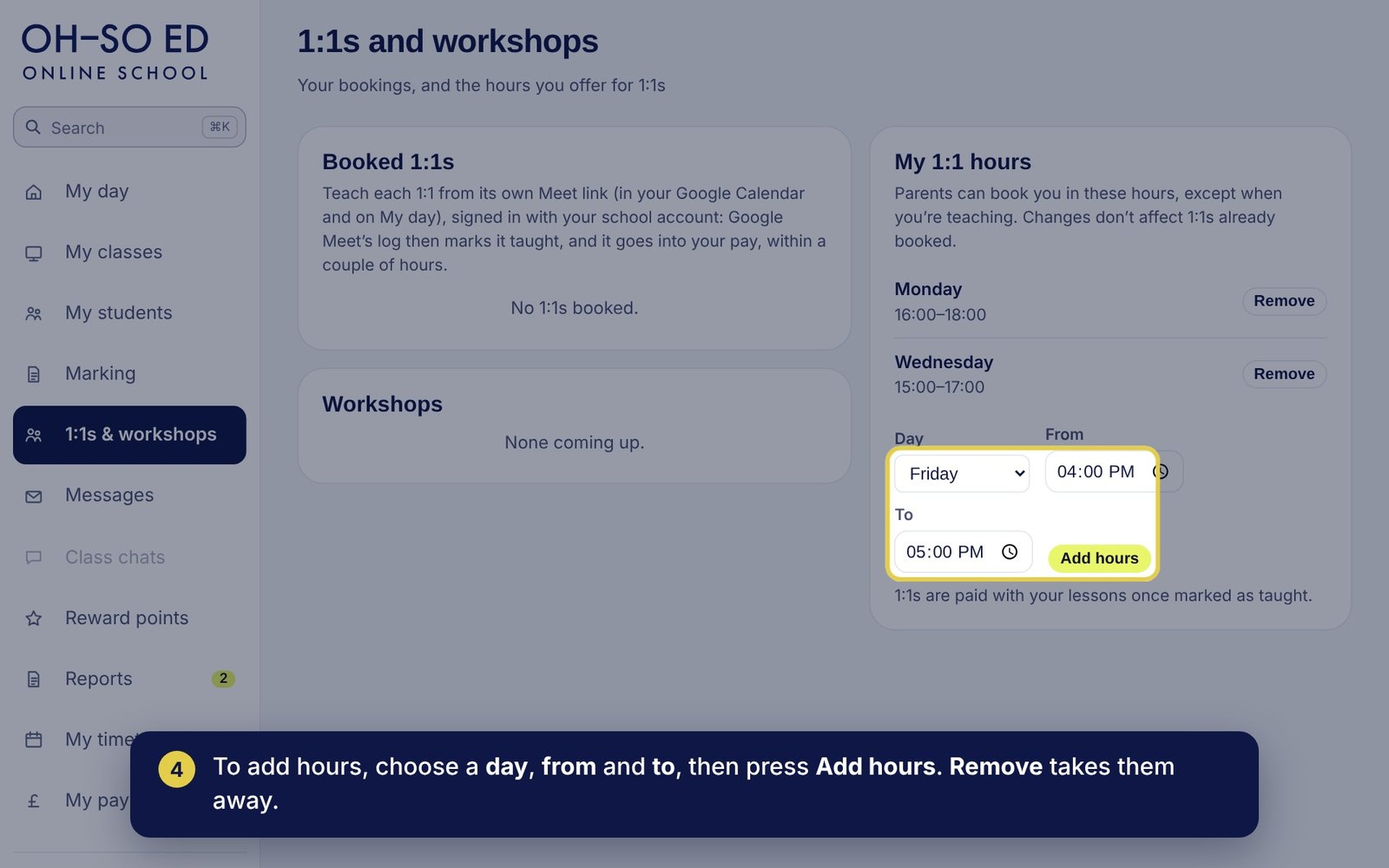
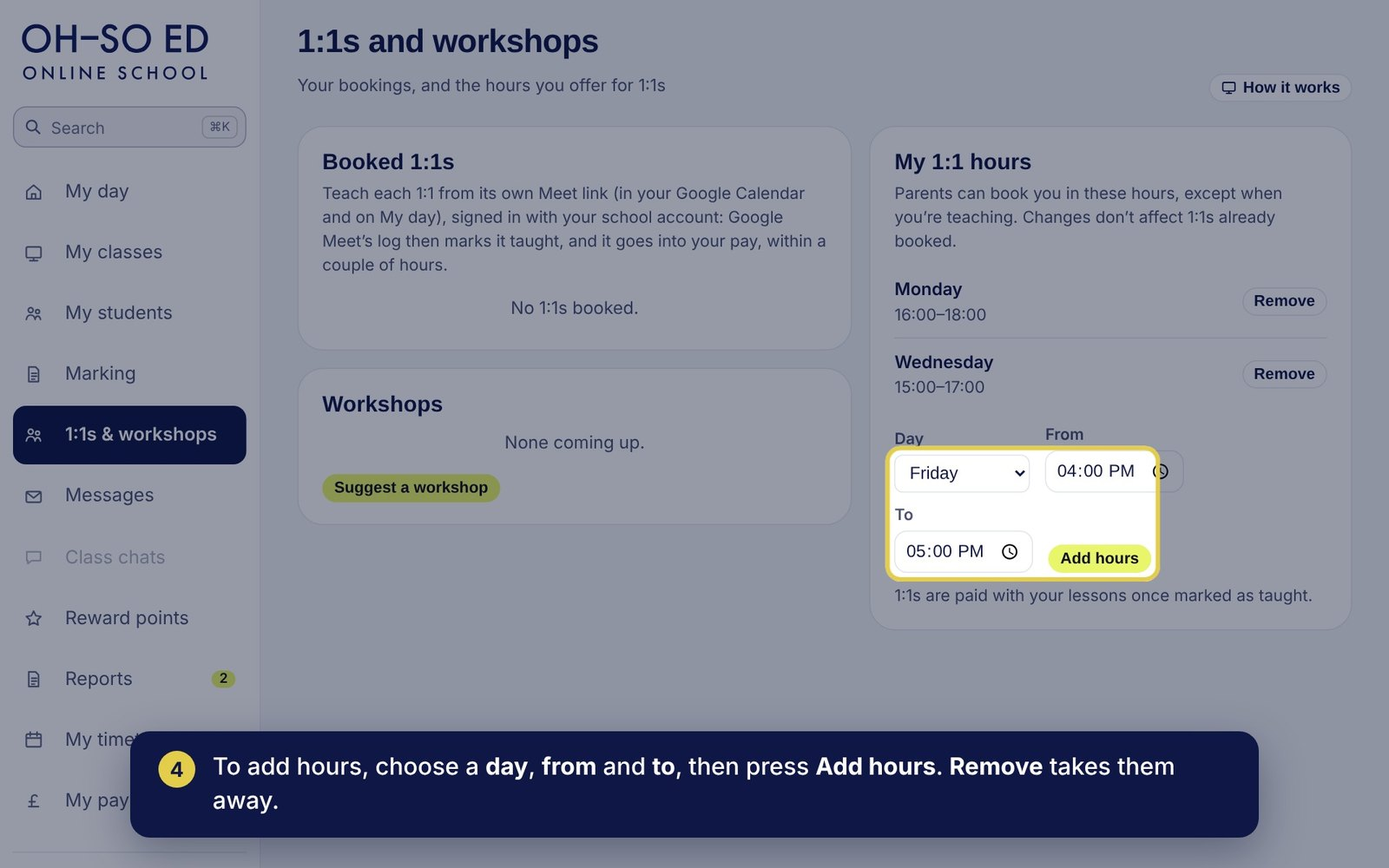
Update 507: suggested dates on workshop ideas with clash warnings (office can override); teacher presentation pages and 1:1s slideshow updated
Claude-Session: https://claude.ai/code/session_019jwWYdrTturMMjiMEQw7Wv

diff --git a/src/lib/workshop-ideas.ts b/src/lib/workshop-ideas.ts
@@ -6,36 +6,45 @@ import { withSchool } from "./db";
 // turn one into a draft workshop (the new-workshop form opens filled in from the idea). db/119.
 export type IdeaStatus = "new" | "liked" | "scheduled" | "not_now";
 export const IDEA_STATUS: Record<IdeaStatus, [string, string]> = { new: ["New", "info"], liked: ["We like it", "good"], scheduled: ["Workshop set up", "good"], not_now: ["Not for now", "mute"] };
+export type IdeaDate = { d: string; t: string };
 export type Idea = { id: string; title: string; subject: string; overview: string; slides_url: string | null; status: IdeaStatus; office_note: string | null;
-  workshop_id: string | null; created_at: string; updated_at: string; teacher: string | null; teacher_id: string };
+  workshop_id: string | null; created_at: string; updated_at: string; teacher: string | null; teacher_id: string; level_id: string | null; level: string | null; minutes: number; dates: IdeaDate[] };
+/** One thing happening at a suggested time: the teacher's own lesson / 1:1 / workshop (they can't do both), or a lesson or
+ *  workshop for students the idea is aimed at (they couldn't come). */
+export type Clash = { own: boolean; what: string; who: string | null; at: string; students: number | null };
 
-const clean = (d: { title: string; subject: string; overview: string; slides: string }) => {
+type IdeaInput = { title: string; subject: string; overview: string; slides: string; level: string; minutes: number; dates: IdeaDate[] };
+const okDates = (ds: IdeaDate[]) => ds.filter((x) => /^\d{4}-\d{2}-\d{2}$/.test(x.d) && /^\d{2}:\d{2}$/.test(x.t)).slice(0, 3);
+const clean = (d: IdeaInput) => {
   const title = d.title.trim().slice(0, 120), subject = d.subject.trim().slice(0, 80), overview = d.overview.trim().slice(0, 3000), slides = d.slides.trim().slice(0, 500);
   if (title.length < 3) return { error: "Give the workshop a title." };
   if (subject.length < 2) return { error: "Choose or type the subject." };
   if (overview.length < 20) return { error: "Write a short overview: what it covers and who it’s for." };
   if (slides && !/^https?:\/\/\S+$/.test(slides)) return { error: "The slides need to be a link, e.g. to Google Slides." };
-  return { title, subject, overview, slides: slides || null };
+  const dates = okDates(d.dates), today = new Date().toISOString().slice(0, 10);
+  if (dates.some((x) => x.d < today)) return { error: "Suggested dates need to be in the future." };
+  return { title, subject, overview, slides: slides || null, level: /^[0-9a-f-]{36}$/.test(d.level) ? d.level : null, minutes: Math.max(15, Math.min(240, Math.round(d.minutes) || 60)), dates };
 };
 
 /** A teacher's own ideas, newest first, and the school's subjects (for the subject box). */
-export async function myIdeas(userId: string): Promise<{ ideas: Idea[]; subjects: string[] }> {
+export async function myIdeas(userId: string): Promise<{ ideas: Idea[]; subjects: string[]; levels: { id: string; name: string }[] }> {
   return withSchool(async (q) => ({
-    ideas: await q<Idea>(`select i.id, i.title, i.subject, i.overview, i.slides_url, i.status, i.office_note, i.workshop_id, i.created_at::text, i.updated_at::text, null as teacher, i.teacher_id
-      from workshop_ideas i join teachers t on t.id = i.teacher_id where t.user_id = $1 order by i.created_at desc`, [userId]),
+    ideas: await q<Idea>(`select i.id, i.title, i.subject, i.overview, i.slides_url, i.status, i.office_note, i.workshop_id, i.created_at::text, i.updated_at::text, null as teacher, i.teacher_id, i.level_id, lv.name as level, i.minutes, i.dates
+      from workshop_ideas i join teachers t on t.id = i.teacher_id left join levels lv on lv.id = i.level_id where t.user_id = $1 order by i.created_at desc`, [userId]),
     subjects: (await q<{ name: string }>(`select distinct name from subjects order by name`)).map((r) => r.name),
-  })).catch(() => ({ ideas: [], subjects: [] }));
+    levels: await q<{ id: string; name: string }>(`select id, name from levels order by sort_order, name`),
+  })).catch(() => ({ ideas: [], subjects: [], levels: [] }));
 }
 
 /** New idea (no id) or a change to one of the teacher's own (until it's set up as a workshop). */
-export async function saveIdea(userId: string, id: string | null, d: { title: string; subject: string; overview: string; slides: string }, actorId = userId): Promise<string | null> {
+export async function saveIdea(userId: string, id: string | null, d: IdeaInput, actorId = userId): Promise<string | null> {
   const c = clean(d); if ("error" in c) return c.error ?? null;
   return withSchool(async (q) => {
     const r = id
-      ? await q<{ id: string }>(`update workshop_ideas i set title = $3, subject = $4, overview = $5, slides_url = $6, updated_at = now()
-          from teachers t where i.id = $2 and t.id = i.teacher_id and t.user_id = $1 and i.status <> 'scheduled' returning i.id`, [userId, id, c.title, c.subject, c.overview, c.slides])
-      : await q<{ id: string }>(`insert into workshop_ideas (school_id, teacher_id, title, subject, overview, slides_url) select current_school(), t.id, $2, $3, $4, $5 from teachers t where t.user_id = $1 returning id`,
-          [userId, c.title, c.subject, c.overview, c.slides]);
+      ? await q<{ id: string }>(`update workshop_ideas i set title = $3, subject = $4, overview = $5, slides_url = $6, level_id = $7, minutes = $8, dates = $9::jsonb, updated_at = now()
+          from teachers t where i.id = $2 and t.id = i.teacher_id and t.user_id = $1 and i.status <> 'scheduled' returning i.id`, [userId, id, c.title, c.subject, c.overview, c.slides, c.level, c.minutes, JSON.stringify(c.dates)])
+      : await q<{ id: string }>(`insert into workshop_ideas (school_id, teacher_id, title, subject, overview, slides_url, level_id, minutes, dates) select current_school(), t.id, $2, $3, $4, $5, $6, $7, $8::jsonb from teachers t where t.user_id = $1 returning id`,
+          [userId, c.title, c.subject, c.overview, c.slides, c.level, c.minutes, JSON.stringify(c.dates)]);
     if (!r.length) return id ? "That idea can’t be changed now." : "Only teachers can suggest workshops.";
     await q(`insert into audit_log (school_id, actor_user_id, action, entity, entity_id, detail) values (current_school(), $1, $2, 'workshop_idea', $3, $4)`,
       [actorId, id ? "update" : "add", r[0].id, JSON.stringify({ title: c.title })]);
@@ -48,8 +57,8 @@ export async function deleteIdea(userId: string, id: string): Promise<void> {
 
 /** Admin → Workshops: every idea, new ones first. */
 export async function allIdeas(): Promise<Idea[]> {
-  return withSchool((q) => q<Idea>(`select i.id, i.title, i.subject, i.overview, i.slides_url, i.status, i.office_note, i.workshop_id, i.created_at::text, i.updated_at::text, u.name as teacher, i.teacher_id
-    from workshop_ideas i join teachers t on t.id = i.teacher_id left join users u on u.id = t.user_id
+  return withSchool((q) => q<Idea>(`select i.id, i.title, i.subject, i.overview, i.slides_url, i.status, i.office_note, i.workshop_id, i.created_at::text, i.updated_at::text, u.name as teacher, i.teacher_id, i.level_id, lv.name as level, i.minutes, i.dates
+    from workshop_ideas i join teachers t on t.id = i.teacher_id left join users u on u.id = t.user_id left join levels lv on lv.id = i.level_id
     order by (i.status = 'new') desc, (i.status = 'liked') desc, i.created_at desc limit 200`)).catch(() => []);
 }
 export async function newIdeasCount(): Promise<number> {
@@ -65,9 +74,9 @@ export async function setIdeaStatus(actorId: string, id: string, status: string,
   return r ? null : "That idea wasn’t found.";
 }
 /** The new-workshop form, filled in from an idea: title, subject (matched by name), teacher and the overview. */
-export async function ideaForForm(id: string): Promise<{ id: string; title: string; subject_id: string | null; teacher_id: string; summary: string; slides_url: string | null } | null> {
+export async function ideaForForm(id: string): Promise<{ id: string; title: string; subject_id: string | null; teacher_id: string; summary: string; slides_url: string | null; level_id: string | null; minutes: number } | null> {
   if (!/^[0-9a-f-]{36}$/.test(id)) return null;
-  return (await withSchool((q) => q<{ id: string; title: string; subject_id: string | null; teacher_id: string; summary: string; slides_url: string | null }>(`select i.id, i.title,
+  return (await withSchool((q) => q<{ id: string; title: string; subject_id: string | null; teacher_id: string; summary: string; slides_url: string | null; level_id: string | null; minutes: number }>(`select i.id, i.title, i.level_id, i.minutes,
       (select s.id from subjects s where lower(s.name) = lower(i.subject) limit 1) as subject_id, i.teacher_id, left(i.overview, 1000) as summary, i.slides_url
     from workshop_ideas i where i.id = $1`, [id])).catch(() => []))[0] ?? null;
 }
@@ -75,4 +84,42 @@ export async function ideaForForm(id: string): Promise<{ id: string; title: stri
 export async function linkIdea(id: string, workshopId: string): Promise<void> {
   if (!/^[0-9a-f-]{36}$/.test(id)) return;
   await withSchool((q) => q(`update workshop_ideas set status = 'scheduled', workshop_id = $2, updated_at = now() where id = $1`, [id, workshopId])).catch(() => null);
+}
+
+/** 27 Nov (Alfonso): what a suggested date clashes with: the teacher's own lessons, 1:1s and workshops (they can't do
+ *  both), and lessons and workshops for the students the idea is aimed at (its level; any level = every lesson), who
+ *  then couldn't come. A warning only: the office can still set the workshop up. Times are London times. */
+export async function dateClashes(teacherId: string | null, levelId: string | null, minutes: number, d: IdeaDate): Promise<Clash[]> {
+  if (!/^\d{4}-\d{2}-\d{2}$/.test(d.d) || !/^\d{2}:\d{2}$/.test(d.t)) return [];
+  const m = Math.max(15, Math.min(240, Math.round(minutes) || 60)), lv = levelId && /^[0-9a-f-]{36}$/.test(levelId) ? levelId : null, me = teacherId && /^[0-9a-f-]{36}$/.test(teacherId) ? teacherId : null;
+  return withSchool((q) => q<Clash>(`
+    with w as (select ($1::date + $2::time) as s, ($1::date + $2::time) + make_interval(mins => $3) as e)
+    select coalesce(ev.teacher_id = $4, false) as own, l.name || ' ' || coalesce(sj.short_name, sj.name) as what, u.name as who,
+      to_char(sl.starts_at, 'HH24:MI') || '–' || to_char(sl.ends_at, 'HH24:MI') as at,
+      (select count(*)::int from enrolments x where x.group_id = g.id and x.status in ('active', 'pending') and not x.is_taster) as students
+    from lesson_events ev join lesson_slots sl on sl.id = ev.slot_id join course_groups g on g.id = ev.group_id join levels l on l.id = g.level_id join subjects sj on sj.id = g.subject_id
+      left join teachers t on t.id = ev.teacher_id left join users u on u.id = t.user_id, w
+    where ev.lesson_date = $1::date and ev.status <> 'cancelled' and (ev.lesson_date + sl.starts_at, ev.lesson_date + sl.ends_at) overlaps (w.s, w.e)
+      and (ev.teacher_id = $4 or $5::uuid is null or g.level_id = $5)
+    union all
+    select coalesce(ws.teacher_id = $4, false), 'Workshop: ' || ws.title, u.name,
+      to_char(lower(ws.during) at time zone 'Europe/London', 'HH24:MI') || '–' || to_char(upper(ws.during) at time zone 'Europe/London', 'HH24:MI'), null
+    from workshops ws left join teachers t on t.id = ws.teacher_id left join users u on u.id = t.user_id, w
+    where ws.status in ('draft', 'published') and ws.during && tstzrange(w.s at time zone 'Europe/London', w.e at time zone 'Europe/London')
+      and (ws.teacher_id = $4 or $5::uuid is null or ws.level_id is null or ws.level_id = $5)
+    union all
+    select true, '1:1 with ' || split_part(coalesce(b.student_name, 'a student'), ' ', 1), null,
+      to_char(lower(b.during) at time zone 'Europe/London', 'HH24:MI') || '–' || to_char(upper(b.during) at time zone 'Europe/London', 'HH24:MI'), null
+    from tutoring_bookings b, w
+    where b.teacher_id = $4 and b.status = 'booked' and b.during && tstzrange(w.s at time zone 'Europe/London', w.e at time zone 'Europe/London')
+    order by 1 desc, 4`, [d.d, d.t, m, me, lv])).catch((e) => { console.error("idea clashes", e); return []; });
+}
+/** Clashes for each of an idea's dates (for the teacher's list and the office's). */
+export async function ideaClashes(i: Pick<Idea, "teacher_id" | "level_id" | "minutes" | "dates">): Promise<Clash[][]> {
+  return Promise.all((i.dates ?? []).map((d) => dateClashes(i.teacher_id, i.level_id, i.minutes, d)));
+}
+/** In words, for a warning line. */
+export const clashText = (c: Clash, me = "You’re") => c.own ? `${me} teaching then: ${c.what} ${c.at}` : `${c.what.startsWith("Workshop") ? "" : "Lesson at this level: "}${c.what}${c.who ? ` (${c.who})` : ""} ${c.at}${c.students ? ` · ${c.students} student${c.students === 1 ? "" : "s"} couldn’t come` : ""}`;
+export async function teacherIdOf(userId: string): Promise<string | null> {
+  return (await withSchool((q) => q<{ id: string }>(`select id from teachers where user_id = $1`, [userId])).catch(() => []))[0]?.id ?? null;
 }

diff --git a/src/app/(site)/newdashboard/content.ts b/src/app/(site)/newdashboard/content.ts
@@ -1,4 +1,4 @@
-// /newdashboard/<role> (25 Nov 2026; brought up to date 27 Nov with updates 471–501): introducing the new dashboards to teachers, parents and students before the January switch.
+// /newdashboard/<role> (25 Nov 2026; brought up to date 27 Nov with updates 471–507): introducing the new dashboards to teachers, parents and students before the January switch.
 // Each section has a screenshot in public/newdashboard/<role>-<shot>-<light|dark>.webp: OH-SO ED's dashboards with made-up
 // students and families (Demo Academy's data shown in OH-SO ED's look), taken by scratch/qa/nd-shots.js.
 // The sticky button in the header (see (site)/layout.tsx) opens the real dashboard in a new tab; signed out, it asks them to sign in.
@@ -23,7 +23,7 @@ export const PAGES: Record<Role, Page> = {
     sections: [
       { id: "my-day", title: "My day", shot: "home", alt: "My day: the next lesson with a clock and countdown, this week’s lessons, Classroom stream, messages from the school, attendance, 1:1s and reports",
         text: "Your home page. It opens on your next lesson, with a countdown and the button to join its Google Meet.",
-        points: ["The lesson’s slides, found by name in the class’s slides folder, and SEND notes for the students in that class", "Today’s lessons, and the latest posts from your Google Classrooms", "Messages from the office (and from families, when that’s switched on)", "Work to mark, attendance in your classes, 1:1s, reports to write and reward points", "Rearrange the boxes the way you like them"] },
+        points: ["The lesson’s slides, found by name in the class’s slides folder", "Under the lesson: birthdays coming up, tasters joining, and SEND notes for the students in that class, so you can welcome and plan for them", "Tips (top right): a short slideshow of the small things that make every student feel noticed", "Today’s lessons, and the latest posts from your Google Classrooms", "Messages from the office (and from families, when that’s switched on)", "Work to mark, attendance in your classes, 1:1s, reports to write and reward points"] },
       { id: "classes", title: "My classes", nav: "Classes", shot: "classes", alt: "My classes: each class with its times, students, attendance, SEND and next lesson",
         text: "Every class you teach, with its lesson times, how many students, attendance this term, SEND and the next lesson.",
         points: ["Switch between a list and cards", "Jump straight to a class’s students, assignments or attendance"] },
@@ -42,9 +42,12 @@ export const PAGES: Record<Role, Page> = {
       { id: "reports", title: "Reports", shot: "reports", alt: "Reports to write: each class with how many comments are written, and a Write button",
         text: "The progress report comments, class by class, with how many you’ve written and when to submit them.",
         points: ["Progress comes from Classroom marks; choose Effort (and, for GCSE, working and predicted grades)", "Each comment is 100–200 words (a count shows under it); Draft with AI writes a first draft that length from the student’s marks, attendance and earlier reports, for you to edit", "Write and save drafts any time; submit in the last week of term, once the assessment is marked (or say why there isn’t one)", "The office approves and publishes them to families"] },
-      { id: "timetable", title: "My timetable, 1:1s and workshops", nav: "Timetable", shot: "timetable", alt: "My timetable: your lessons for the week by day and time",
-        text: "Your week at a glance, plus your booked 1:1s and the hours you offer for them.",
-        points: ["Coming up: your lessons for the next three weeks, each with Reschedule", "Set the hours parents can book you for 1:1s", "Each 1:1 has its own Meet link in your Google Calendar, and is logged as taught from Meet"] },
+      { id: "timetable", title: "My timetable", nav: "Timetable", shot: "timetable", alt: "My timetable: your lessons for the week by day and time",
+        text: "Your week at a glance, with every lesson coming up for the next three weeks.",
+        points: ["Coming up: your lessons for the next three weeks, each with Reschedule", "Lessons, 1:1s and workshops all go into your own calendar app too (Calendar sync)"] },
+      { id: "ones", title: "1:1s and workshops", nav: "1:1s", shot: "ones", alt: "1:1s and workshops: booked 1:1s, your workshops, the hours parents can book you, and a form to suggest a workshop with suggested dates checked for clashes",
+        text: "Your booked 1:1s and workshops, the hours parents can book you for 1:1s, and your ideas for new workshops.",
+        points: ["Set the hours parents can book you for 1:1s; each 1:1 has its own Meet link in your Google Calendar and is logged as taught from Meet", "Suggest a workshop: a title, the subject, who it’s for, an overview and your slides (you can add them later)", "Suggest up to 3 dates: each is checked as you pick it, and warns you if you’re teaching then or if students at that level have a lesson", "Workshops are mostly for new families, so holidays, weekends and after school work well", "See what the office thinks, and when your idea is set up as a workshop"] },
       { id: "change", title: "Reschedule a lesson", nav: "Reschedule", shot: "change", alt: "Reschedule a lesson: choose to move it or cancel it, pick a new date and time from the free times, give a reason and send it to the office",
         text: "If you can’t teach a lesson, press Reschedule (on My timetable or the lesson itself) to ask the office to move it or cancel it.",
         points: ["Choose a new date and time from a list of times that are free", "Free means no clash with your other lessons, 1:1s or workshops, any lesson in the same level group (KS3, Pre-GCSE or GCSE), or the students’ other lessons", "The office approves it, and the class’s families and students are emailed the change automatically", "The new lesson goes into everyone’s timetable and calendar, with its reminders, attendance and pay"] },

diff --git a/src/app/admin/(panel)/workshops/[id]/page.tsx b/src/app/admin/(panel)/workshops/[id]/page.tsx
@@ -3,34 +3,39 @@ import { notFound } from "next/navigation";
 import { getWorkshopEdit } from "@/lib/workshops-admin";
 import { saveWorkshopAction } from "../../../actions";
 import { drawingPictures } from "@/lib/studio";
-import { ideaForForm } from "@/lib/workshop-ideas";
+import { ideaForForm, dateClashes, clashText } from "@/lib/workshop-ideas";
 
 const p2 = (n: number | null | undefined) => (n == null ? "" : (n / 100).toFixed(2));
 
-export default async function EditWorkshop({ params, searchParams }: { params: Promise<{ id: string }>; searchParams: Promise<{ ok?: string; err?: string; idea?: string }> }) {
+export default async function EditWorkshop({ params, searchParams }: { params: Promise<{ id: string }>; searchParams: Promise<{ ok?: string; err?: string; idea?: string; d?: string; t?: string }> }) {
   const [{ id }, sp] = await Promise.all([params, searchParams]);
   const isNew = id === "new";
   const [{ w, levels, subjects, teachers }, drawings] = await Promise.all([getWorkshopEdit(isNew ? null : id), drawingPictures().then((d) => d.slice(0, 24))]);
   if (!isNew && !w) notFound();
   // 27 Nov: "Make it a workshop" on a teacher's idea opens this form filled in from it
   const idea = isNew && sp.idea ? await ideaForForm(sp.idea) : null;
-  const pre = idea ? { title: idea.title, subject_id: idea.subject_id, teacher_id: idea.teacher_id, summary: idea.summary } : null;
+  const pd = /^\d{4}-\d{2}-\d{2}$/.test(sp.d ?? "") ? sp.d! : undefined, pt = /^\d{2}:\d{2}$/.test(sp.t ?? "") ? sp.t! : undefined;
+  const pre = idea ? { title: idea.title, subject_id: idea.subject_id, teacher_id: idea.teacher_id, summary: idea.summary, level_id: idea.level_id, minutes: idea.minutes, date: pd, time: pt } : null;
+  // 27 Nov: the office can override clashes with other lessons; they're shown as a warning
+  const warn = idea && pd && pt ? await dateClashes(idea.teacher_id, idea.level_id, idea.minutes, { d: pd, t: pt }) : [];
   return <>
     <p className="backlink"><Link className="abtn sm" href="/admin/workshops">← Workshops</Link></p>
     <div className="top"><div><h1>{isNew ? "New workshop" : w!.title}</h1>{w && <div className="sub">{w.booked} booked · {w.status}</div>}</div></div>
     {sp.ok && <p className="note msg">{sp.ok}</p>}{sp.err && <p className="note msg bad">{sp.err}</p>}
     <form action={saveWorkshopAction} className="card" style={{ display: "grid", gap: 14 }} encType="multipart/form-data">
       <input type="hidden" name="id" value={isNew ? "" : id} />{idea && <input type="hidden" name="idea" value={idea.id} />}
-      {idea && <p className="note" style={{ margin: 0 }}>Filled in from {"a teacher’s"} idea.{idea.slides_url && <> Their slides: <a href={idea.slides_url} target="_blank" rel="noopener">open ↗</a></>} Add the date, time and price, then save.</p>}
+      {idea && <p className="note" style={{ margin: 0 }}>Filled in from {"a teacher’s"} idea.{idea.slides_url && <> Their slides: <a href={idea.slides_url} target="_blank" rel="noopener">open ↗</a></>} {pd ? " Check the price, then save." : " Add the date, time and price, then save."}</p>}
+      {warn.length > 0 && <div className="note msg bad" style={{ margin: 0 }}><b>Heads up: this time clashes with</b><ul className="wi-warn" style={{ margin: "6px 0 0" }}>{warn.map((c, j) => <li key={j}>{clashText(c, "The teacher’s")}</li>)}</ul>
+        <span style={{ fontSize: 14 }}>You can still save it. Students in those lessons won’t be able to come{warn.some((c) => c.own) ? ", and the teacher can’t teach two things at once, so that one will be refused" : ""}.</span></div>}
       <label className="fld">Title<input name="title" required maxLength={120} defaultValue={w?.title ?? pre?.title} style={{ maxWidth: 520 }} /></label>
       <div className="eform">
-        <label className="fld">Date<input type="date" name="date" required defaultValue={w?.date} /></label>
-        <label className="fld">Starts (UK time)<input type="time" name="time" required step={300} defaultValue={w?.time ?? "10:00"} /></label>
-        <label className="fld">Minutes<input type="number" name="minutes" min={15} max={240} step={5} defaultValue={w?.minutes ?? 45} style={{ width: 90 }} /></label>
+        <label className="fld">Date<input type="date" name="date" required defaultValue={w?.date ?? pre?.date} /></label>
+        <label className="fld">Starts (UK time)<input type="time" name="time" required step={300} defaultValue={w?.time ?? pre?.time ?? "10:00"} /></label>
+        <label className="fld">Minutes<input type="number" name="minutes" min={15} max={240} step={5} defaultValue={w?.minutes ?? pre?.minutes ?? 45} style={{ width: 90 }} /></label>
         <label className="fld">Teacher<select name="teacher" defaultValue={w?.teacher_id ?? pre?.teacher_id ?? ""}><option value="">Not set</option>{teachers.map((t) => <option key={t.id} value={t.id}>{t.name}</option>)}</select></label>
       </div>
       <div className="eform">
-        <label className="fld">Level<select name="level" defaultValue={w?.level_id ?? ""}><option value="">Any level</option>{levels.map((l) => <option key={l.id} value={l.id}>{l.name}</option>)}</select></label>
+        <label className="fld">Level<select name="level" defaultValue={w?.level_id ?? pre?.level_id ?? ""}><option value="">Any level</option>{levels.map((l) => <option key={l.id} value={l.id}>{l.name}</option>)}</select></label>
         <label className="fld">Subject<select name="subject" defaultValue={w?.subject_id ?? pre?.subject_id ?? ""}><option value="">None</option>{subjects.map((s) => <option key={s.id} value={s.id}>{s.name}</option>)}</select></label>
         <label className="fld">Places<input type="number" name="capacity" min={1} max={500} defaultValue={w?.capacity ?? 12} style={{ width: 90 }} /></label>
       </div>

diff --git a/src/app/admin/(panel)/workshops/page.tsx b/src/app/admin/(panel)/workshops/page.tsx
@@ -1,7 +1,7 @@
 import Link from "next/link";
 import { getWorkshopsAdmin } from "@/lib/admin-data";
 import { setWorkshopStatusAction, ideaStatusAction } from "../../actions";
-import { allIdeas, IDEA_STATUS, type Idea } from "@/lib/workshop-ideas";
+import { allIdeas, ideaClashes, clashText, IDEA_STATUS, type Idea, type Clash } from "@/lib/workshop-ideas";
 import { money } from "@/lib/format";
 import { siteText } from "@/lib/site-content";
 import { listTeachers } from "@/lib/teachers-admin";
@@ -19,6 +19,8 @@ export default async function Workshops({ searchParams }: { searchParams: Promis
   const papers = sp.tab === "papers";
   if (papers) await P.paperPaymentsBackground().catch(() => null);   // payments made since the last look
   const [ws, jobs, ideas] = await Promise.all([papers ? Promise.resolve([]) : getWorkshopsAdmin(), P.adminPapers().catch(() => [] as P.PaperJob[]), papers ? Promise.resolve([] as Idea[]) : allIdeas()]);
+  // 27 Nov: each suggested date, checked against lessons now (they may have changed since the teacher sent it)
+  const clashes = new Map<string, Clash[][]>(await Promise.all(ideas.filter((i) => i.status !== "scheduled" && i.dates?.length).map(async (i) => [i.id, await ideaClashes(i)] as [string, Clash[][]])));
   const todo = jobs.filter((j) => j.paid_at && !j.returned_at).length + jobs.filter((j) => !j.paid_at && !j.handled_at).length;
   const tabs = <div className="segl" style={{ marginBottom: 16 }}><Link href="/admin/workshops" aria-current={!papers ? "true" : undefined}>Workshops</Link>
     <Link href="/admin/workshops?tab=papers" aria-current={papers ? "true" : undefined}>Past paper marking{todo ? ` (${todo})` : ""}</Link></div>;
@@ -52,11 +54,18 @@ export default async function Workshops({ searchParams }: { searchParams: Promis
       <p className="cs">Teachers suggest workshops from their 1:1s &amp; workshops page, with slides when they have them. Let them know what you think: they see your answer and note there.</p>
       {sp.ok && <p className="note msg" role="status">{sp.ok}</p>}{sp.err && <p className="note msg bad" role="alert">{sp.err}</p>}
       {ideas.length === 0 ? <p className="empty">No ideas yet.</p> : <div className="wi-admin">{ideas.map((i) => <details key={i.id} className="wi-row" open={i.status === "new"}>
-        <summary><span className="t"><b>{i.title}</b><span>{i.teacher ?? "A teacher"} · {i.subject} · {new Date(i.created_at).toLocaleDateString("en-GB", { day: "numeric", month: "short", timeZone: "Europe/London" })}{i.slides_url ? " · slides" : " · no slides yet"}</span></span>
+        <summary><span className="t"><b>{i.title}</b><span>{i.teacher ?? "A teacher"} · {i.subject}{i.level ? ` · ${i.level}` : " · any level"} · {i.minutes} min · {new Date(i.created_at).toLocaleDateString("en-GB", { day: "numeric", month: "short", timeZone: "Europe/London" })}{i.slides_url ? " · slides" : " · no slides yet"}</span></span>
           <span className={`pill ${IDEA_STATUS[i.status][1]}`}>{IDEA_STATUS[i.status][0]}</span></summary>
         <div className="wi-body">
           <p className="wi-ov">{i.overview}</p>
           {i.slides_url && <p style={{ margin: 0 }}><a className="abtn sm" href={i.slides_url} target="_blank" rel="noopener">Open the slides ↗</a></p>}
+          {i.status !== "scheduled" && i.dates?.length > 0 && <div className="wi-sdates"><b>Suggested dates</b>{i.dates.map((d, k) => { const cs = clashes.get(i.id)?.[k] ?? [];
+            const nm = (i.teacher ?? "The teacher").split(" ")[0];
+            return <div key={k} className="wi-sdate"><span className="wi-when">{new Date(d.d + "T12:00:00Z").toLocaleDateString("en-GB", { weekday: "short", day: "numeric", month: "short", year: "numeric" })} · {d.t}</span>
+              {cs.length ? <span className="pill warn">{cs.length} clash{cs.length === 1 ? "" : "es"}</span> : <span className="pill good">No clashes</span>}
+              <Link className="abtn sm" href={`/admin/workshops/new?idea=${i.id}&d=${d.d}&t=${d.t}`}>Use this date</Link>
+              {cs.length > 0 && <ul className="wi-warn">{cs.map((c, j) => <li key={j}>{clashText(c, `${nm}’s`)}</li>)}</ul>}</div>; })}
+            <p className="muted" style={{ fontSize: 13.5, margin: 0 }}>Clashes are a warning: you can still use a date. Lessons for students at this level{i.level ? ` (${i.level})` : " (any level: every lesson)"} at the same time mean those students couldn’t come.</p></div>}
           {i.status === "scheduled" && i.workshop_id ? <p style={{ margin: 0 }}><Link href={`/admin/workshops/${i.workshop_id}`}>Set up as a workshop →</Link></p> : <>
             <form action={ideaStatusAction} className="wi-acts"><input type="hidden" name="id" value={i.id} />
               <label className="fld">What do you think?<select name="status" defaultValue={i.status === "new" ? "liked" : i.status}><option value="new">New</option><option value="liked">We like it</option><option value="not_now">Not for now</option></select></label>

diff --git a/src/app/admin/guides.ts b/src/app/admin/guides.ts
@@ -27,7 +27,7 @@ export const TEACHER_GUIDES = {
   timetable: { title: "My timetable: moving or cancelling a lesson", slides: deck("timetable", ["My timetable: Your week, and how to move or cancel a lesson", "Your weekly timetable: every class, its level and how many students.", "Coming up lists your lessons for the next three weeks.", "Choose Move it to another time or Cancel it.", "Pick a new time from the list. You’re only offered times that don’t clash.", "Add a short reason and send it. The office approves it.", "Your calendar, My day and the families’ dashboards all update by themselves once it’s approved."]) },
   points: { title: "Reward points: how they work", slides: deck("points", ["Reward points: Say well done with 1 to 10 points", "Your classes and students are listed with the points they have this term.", "Choose how many points: +1 to +10.", "Add a short reason, or pick one: Great work, Homework on time, Helping others…", "Press Give.", "The top 3 students in the school each term win a gift. Points given in the holidays don’t count towards a term."]) },
   students: { title: "My students: how it works", slides: deck("students", ["My students: Everyone you teach, in one list", "All the students in your classes this year.", "Search by name, show only students with SEND or attendance under 85%, or pick one class.", "See each student’s classes, attendance, points, SEND, whether they’ve joined Classroom, and birthdays.", "SEND details show only where the parent agreed to share them with teachers.", "Treat everything here as private: it’s for planning your teaching, nothing else."]) },
-  ones: { title: "1:1s and workshops: how they work", slides: deck("ones", ["1:1s and workshops: Your bookings, and the hours parents can book you", "Booked 1:1s are listed here, on My day and in your Google Calendar.", "Workshops you’re running show here with how many are booked.", "My 1:1 hours: the times parents can book you, except when you’re teaching.", "To add hours, choose a day, from and to, then press Add hours. Remove takes them away.", "Google Meet’s log marks each 1:1 as taught, and it’s paid with your lessons."]) },
+  ones: { title: "1:1s and workshops: how they work", slides: deck("ones", ["1:1s and workshops: Your bookings, your 1:1 hours, and your workshop ideas", "Booked 1:1s are listed here, on My day and in your Google Calendar.", "Workshops you’re running show here with how many are booked.", "My 1:1 hours: the times parents can book you, except when you’re teaching.", "To add hours, choose a day, from and to, then press Add hours. Remove takes them away.", "Have an idea for a workshop? Press Suggest a workshop: a title, the subject and a short overview.", "Say who it’s for and suggest up to 3 dates. Each is checked as you pick it.", "Press Send to the office. Your idea appears under Your ideas, with what the office thinks.", "Google Meet’s log marks each 1:1 as taught, and it’s paid with your lessons."]) },
   // 27 Nov (Alfonso: "teachers need a Tips slide for their homepage ... who's bday it is or coming up, and tasters etc")
   tips: { title: "Tips for your lessons", slides: deck("tips", ["Tips for your lessons: Small things that make every student feel noticed", "Birthdays: when a student in your next lesson has a birthday within 3 days, it shows under the lesson. Wish them a happy birthday.", "Tasters: a new student is trying the class. Welcome them by name and introduce them to the class.", "Support needs (where parents agreed to share them) show here too. Plan for them before the lesson.", "Near the start time this button becomes Join. Join a few minutes early, with your school Google account.", "My students lists everyone’s birthday and support needs, for all your classes.", "Give reward points during or straight after the lesson, with a reason.", "Say their names, notice effort, and end each lesson with what’s coming next."]) },
   calendar: { title: "Calendar sync: how it works", slides: deck("calendar", ["Calendar sync: Your lessons in your own calendar app", "Add the OH-SO ED calendar once and your lessons, 1:1s, workshops and holidays appear in your own calendar.", "Press Google Calendar or Apple Calendar or Outlook.", "Buttons not working? Copy the calendar address and add it by hand: the steps for each app are below it.", "Shared the address by mistake? Make a new address: the old one stops working.", "Each lesson in your calendar has its Meet link and register."]) },

diff --git a/src/app/admin/(staff)/teacher/ones/page.tsx b/src/app/admin/(staff)/teacher/ones/page.tsx
@@ -3,6 +3,7 @@ import { myOnes } from "@/lib/teacher-area";
 import { teacherOneWork, type OneWork } from "@/lib/one-courses";
 import { markOneTaughtAction, addMyHoursAction, removeMyHoursAction, saveIdeaAction, deleteIdeaAction } from "../../../actions";
 import { myIdeas, IDEA_STATUS, type Idea } from "@/lib/workshop-ideas";
+import { IdeaDates } from "./IdeaDates";
 import { DAYLONG, dlong, hm, gbp } from "../fmt";
 import { GuideSlides } from "../../../GuideSlides";
 import { TEACHER_GUIDES } from "../../../guides";
@@ -29,12 +30,12 @@ export default async function Ones({ searchParams }: { searchParams: Promise<{ o
           <div className="t on-lines"><b>{w.title}</b><span>{w.minutes} min</span><span>{w.booked} booked</span></div></div>)}
         {/* 27 Nov (Alfonso): teachers suggest workshop ideas; the office sees them on Workshops */}
         <details className="wi-new"><summary className="abtn sm pri">Suggest a workshop</summary>
-          <IdeaForm subjects={ideas.subjects} /></details>
+          <IdeaForm subjects={ideas.subjects} levels={ideas.levels} /></details>
         {ideas.ideas.length > 0 && <div className="wi-list"><h3>Your ideas</h3>{ideas.ideas.map((i) => <details key={i.id} className="wi-item">
-          <summary><span className="t"><b>{i.title}</b><span>{i.subject} · sent {dlong(i.created_at)}{i.slides_url ? " · slides added" : " · no slides yet"}</span></span>
+          <summary><span className="t"><b>{i.title}</b><span>{i.subject}{i.level ? ` · ${i.level}` : ""} · sent {dlong(i.created_at)}{i.dates?.length ? ` · ${i.dates.length} date${i.dates.length === 1 ? "" : "s"} suggested` : ""}{i.slides_url ? " · slides added" : " · no slides yet"}</span></span>
             <span className={`pill ${IDEA_STATUS[i.status][1]}`}>{IDEA_STATUS[i.status][0]}</span></summary>
           {i.office_note && <p className="wi-note"><b>The office:</b> {i.office_note}</p>}
-          {i.status === "scheduled" ? <p className="cs">It’s been set up as a workshop. Thank you!</p> : <IdeaForm subjects={ideas.subjects} idea={i} />}
+          {i.status === "scheduled" ? <p className="cs">It’s been set up as a workshop. Thank you!</p> : <IdeaForm subjects={ideas.subjects} levels={ideas.levels} idea={i} />}
           {(i.status === "new" || i.status === "not_now") && <form action={deleteIdeaAction} className="wi-del"><input type="hidden" name="id" value={i.id} /><button className="lnk" type="submit">Remove this idea</button></form>}
         </details>)}</div>}
       </section>
@@ -68,13 +69,14 @@ function WorkPill({ w }: { w: OneWork }) {
 }
 
 /** 27 Nov: suggest a workshop (or change one already sent): title, subject, overview, and slides (optional, can be added later). */
-function IdeaForm({ subjects, idea }: { subjects: string[]; idea?: Idea }) {
+function IdeaForm({ subjects, levels, idea }: { subjects: string[]; levels: { id: string; name: string }[]; idea?: Idea }) {
   const list = `wi-subjects-${idea?.id ?? "new"}`;
   return <form action={saveIdeaAction} className="wi-form">{idea && <input type="hidden" name="id" value={idea.id} />}
     <label className="fld">Title<input name="title" required minLength={3} maxLength={120} defaultValue={idea?.title} placeholder="e.g. A Christmas Carol: the ghosts up close" /></label>
     <label className="fld">Subject<input name="subject" required minLength={2} maxLength={80} list={list} defaultValue={idea?.subject} placeholder="Choose or type" />
       <datalist id={list}>{subjects.map((n) => <option key={n} value={n} />)}</datalist></label>
     <label className="fld">Overview<textarea name="overview" required minLength={20} maxLength={3000} rows={5} defaultValue={idea?.overview} placeholder="What it covers, who it’s for (level or age), roughly how long, and what students will take away." /></label>
+    <IdeaDates levels={levels} level={idea?.level_id ?? null} minutes={idea?.minutes ?? 60} dates={idea?.dates ?? []} />
     <label className="fld">Slides (optional)<input name="slides" type="url" maxLength={500} defaultValue={idea?.slides_url ?? ""} placeholder="Link to your Google Slides: you can add it later" /></label>
     <button className="abtn sm pri" type="submit">{idea ? "Save changes" : "Send to the office"}</button>
   </form>;

diff --git a/src/app/admin/(staff)/teacher/ones/IdeaDates.tsx b/src/app/admin/(staff)/teacher/ones/IdeaDates.tsx
@@ -1,0 +1,41 @@
+"use client";
+import { useEffect, useRef, useState } from "react";
+import { checkIdeaDatesAction } from "../../../actions";
+
+/** 27 Nov (Alfonso): who the workshop idea is for, how long, and up to 3 suggested dates. Each date is checked as it's
+ *  chosen: the teacher's own lessons, 1:1s and workshops, and lessons for students at that level (who then couldn't
+ *  come). A warning only; the office decides. */
+const LEN: [number, string][] = [[45, "45 min"], [60, "1 hour"], [75, "1¼ hours"], [90, "1½ hours"], [120, "2 hours"], [150, "2½ hours"], [180, "3 hours"]];
+export function IdeaDates({ levels, level, minutes, dates }: { levels: { id: string; name: string }[]; level: string | null; minutes: number; dates: { d: string; t: string }[] }) {
+  const [lv, setLv] = useState(level ?? ""), [mins, setMins] = useState(minutes || 60);
+  const [rows, setRows] = useState(() => [0, 1, 2].map((i) => dates[i] ?? { d: "", t: "10:00" }));
+  const [warn, setWarn] = useState<string[][]>([[], [], []]);
+  const seq = useRef(0);
+  useEffect(() => {
+    const n = ++seq.current;
+    const t = setTimeout(async () => {
+      const filled = rows.map((r) => (r.d && r.t ? r : null));
+      const res = await checkIdeaDatesAction(lv, mins, filled.filter(Boolean) as { d: string; t: string }[]).catch(() => null);
+      if (!res || n !== seq.current) return;
+      let k = 0; setWarn(filled.map((r) => (r ? res[k++] ?? [] : [])));
+    }, 350);
+    return () => clearTimeout(t);
+  }, [lv, mins, rows]);
+  const today = new Date().toISOString().slice(0, 10);
+  const set = (i: number, k: "d" | "t", v: string) => setRows((rs) => rs.map((r, j) => (j === i ? { ...r, [k]: v } : r)));
+  return <div className="wi-dates">
+    <div className="wi-dr">
+      <label className="fld">Who it’s for<select name="level" value={lv} onChange={(e) => setLv(e.target.value)}><option value="">Any level</option>{levels.map((l) => <option key={l.id} value={l.id}>{l.name}</option>)}</select></label>
+      <label className="fld">How long<select name="minutes" value={mins} onChange={(e) => setMins(Number(e.target.value))}>{LEN.map(([m, l]) => <option key={m} value={m}>{l}</option>)}</select></label>
+    </div>
+    <p className="wi-dh">Suggested dates <span className="muted">(up to 3, optional). Workshops are mostly for new families: holidays, weekends and after school work well.</span></p>
+    {rows.map((r, i) => <div key={i} className="wi-drow">
+      <div className="wi-dr">
+        <label className="fld"><span className="sr-only">Date {i + 1}</span><input type="date" name={`d${i + 1}`} min={today} value={r.d} onChange={(e) => set(i, "d", e.target.value)} /></label>
+        <label className="fld"><span className="sr-only">Time {i + 1}</span><input type="time" name={`t${i + 1}`} step={300} value={r.t} onChange={(e) => set(i, "t", e.target.value)} /></label>
+        {r.d && (warn[i]?.length ? <span className="pill warn">Clashes</span> : <span className="pill good">No clashes</span>)}
+      </div>
+      {r.d && warn[i]?.length > 0 && <ul className="wi-warn">{warn[i].map((w, k) => <li key={k}>{w}</li>)}</ul>}
+    </div>)}
+  </div>;
+}

diff --git a/src/app/admin/actions.ts b/src/app/admin/actions.ts
@@ -1288,8 +1288,17 @@ export async function saveIdeaAction(f: FormData): Promise<void> {
   const [me, real] = await Promise.all([requireViewer(), requireSignedIn()]);
   const id = str(f, "id", 40);
   const { saveIdea } = await import("@/lib/workshop-ideas");
-  const err = await saveIdea(me.id, /^[0-9a-f-]{36}$/.test(id) ? id : null, { title: str(f, "title", 120), subject: str(f, "subject", 80), overview: String(f.get("overview") ?? "").slice(0, 3000), slides: str(f, "slides", 500) }, real.id);
+  const dates = [1, 2, 3].map((n) => ({ d: str(f, `d${n}`, 10), t: str(f, `t${n}`, 5) })).filter((x) => x.d && x.t);
+  const err = await saveIdea(me.id, /^[0-9a-f-]{36}$/.test(id) ? id : null, { title: str(f, "title", 120), subject: str(f, "subject", 80), overview: String(f.get("overview") ?? "").slice(0, 3000), slides: str(f, "slides", 500),
+    level: str(f, "level", 40), minutes: Number(str(f, "minutes", 3)) || 60, dates }, real.id);
   tback("/admin/teacher/ones", id ? "Idea updated." : "Thank you! Your idea has gone to the office. You’ll see here what they think.", err);
+}
+/** 27 Nov: the teacher's idea form checks each suggested date as it's chosen. Returns a warning list per date. */
+export async function checkIdeaDatesAction(level: string, minutes: number, dates: { d: string; t: string }[]): Promise<string[][]> {
+  const me = await requireViewer();
+  const { teacherIdOf, dateClashes, clashText } = await import("@/lib/workshop-ideas");
+  const tid = await teacherIdOf(me.id);
+  return Promise.all(dates.slice(0, 3).map(async (d) => (await dateClashes(tid, level || null, minutes, d)).map((c) => clashText(c))));
 }
 export async function deleteIdeaAction(f: FormData): Promise<void> {
   const me = await requireViewer();

diff --git a/src/app/admin/admin.css b/src/app/admin/admin.css
@@ -1824,4 +1824,12 @@ html[data-tips=off] .adm .gv-btn,html[data-tips=off] .adm .gs-info,html[data-tip
 .adm .wi-row>summary .t{flex:1;min-width:220px;display:grid;gap:2px}.adm .wi-row>summary .t>span{font-size:14px;color:var(--muted)}
 .adm .wi-body{padding:0 14px 14px;display:grid;gap:10px}.adm .wi-ov{white-space:pre-wrap;margin:0;line-height:1.55}
 .adm .wi-acts{display:flex;flex-wrap:wrap;gap:8px;align-items:flex-end}.adm .wi-acts .fld input{min-width:280px}
-.adm .wi-form textarea{font:inherit;line-height:1.5}.adm .wi-form button{justify-self:start}
+.adm .wi-form textarea{font:inherit;font-weight:400;line-height:1.5}.adm .wi-form input{font-weight:400}.adm .wi-form button{justify-self:start}
+
+/* 27 Nov: suggested dates on workshop ideas, with clash warnings */
+.adm .wi-dates{display:grid;gap:8px}.adm .wi-dr{display:flex;flex-wrap:wrap;gap:8px 12px;align-items:center}.adm .wi-dr .fld{margin:0}
+.adm .wi-dr input,.adm .wi-dr select{width:auto}
+.adm .wi-dh{margin:4px 0 0;font-weight:600;font-size:15px}.adm .wi-dh .muted{font-weight:400;font-size:13.5px}
+.adm .wi-warn{margin:4px 0 0;padding-left:18px;font-size:13.5px;color:var(--warn)}.adm .wi-warn li{margin:2px 0}
+.adm .wi-sdates{display:grid;gap:8px;border-top:1px solid var(--line);padding-top:10px}
+.adm .wi-sdate{display:flex;flex-wrap:wrap;gap:6px 10px;align-items:center}.adm .wi-sdate .wi-warn{flex-basis:100%}.adm .wi-when{font-weight:600;min-width:190px}
